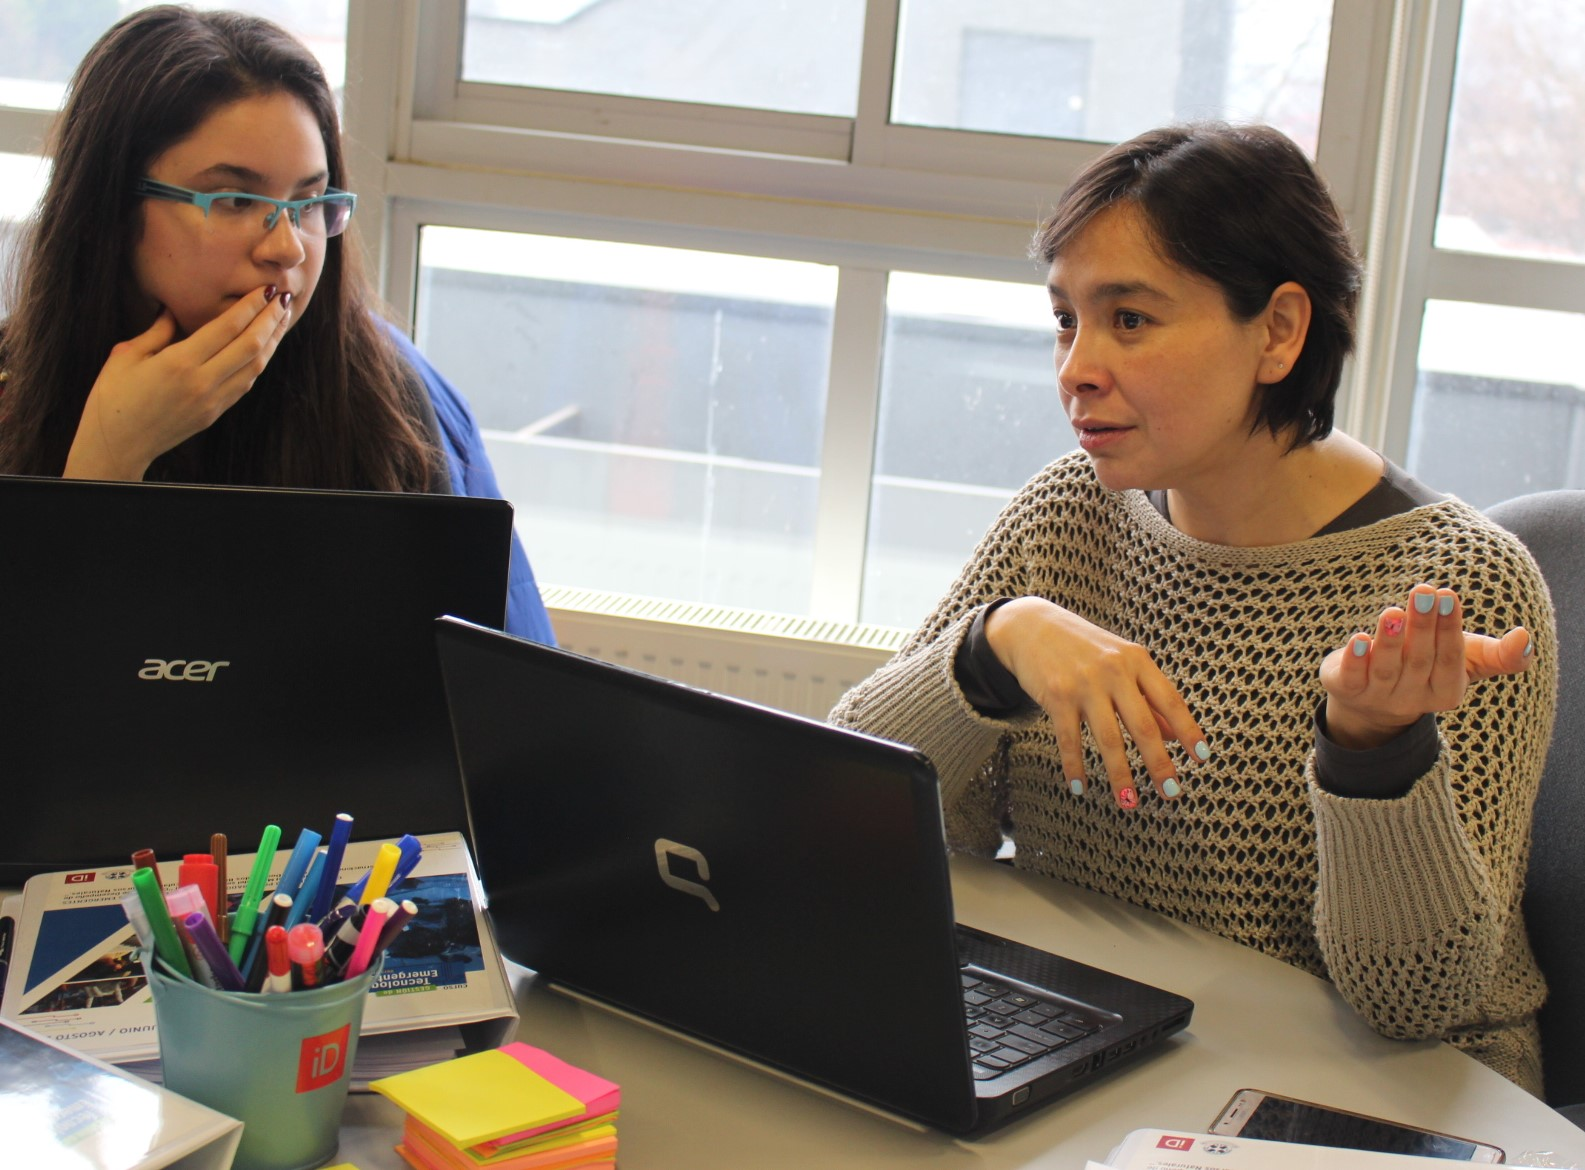
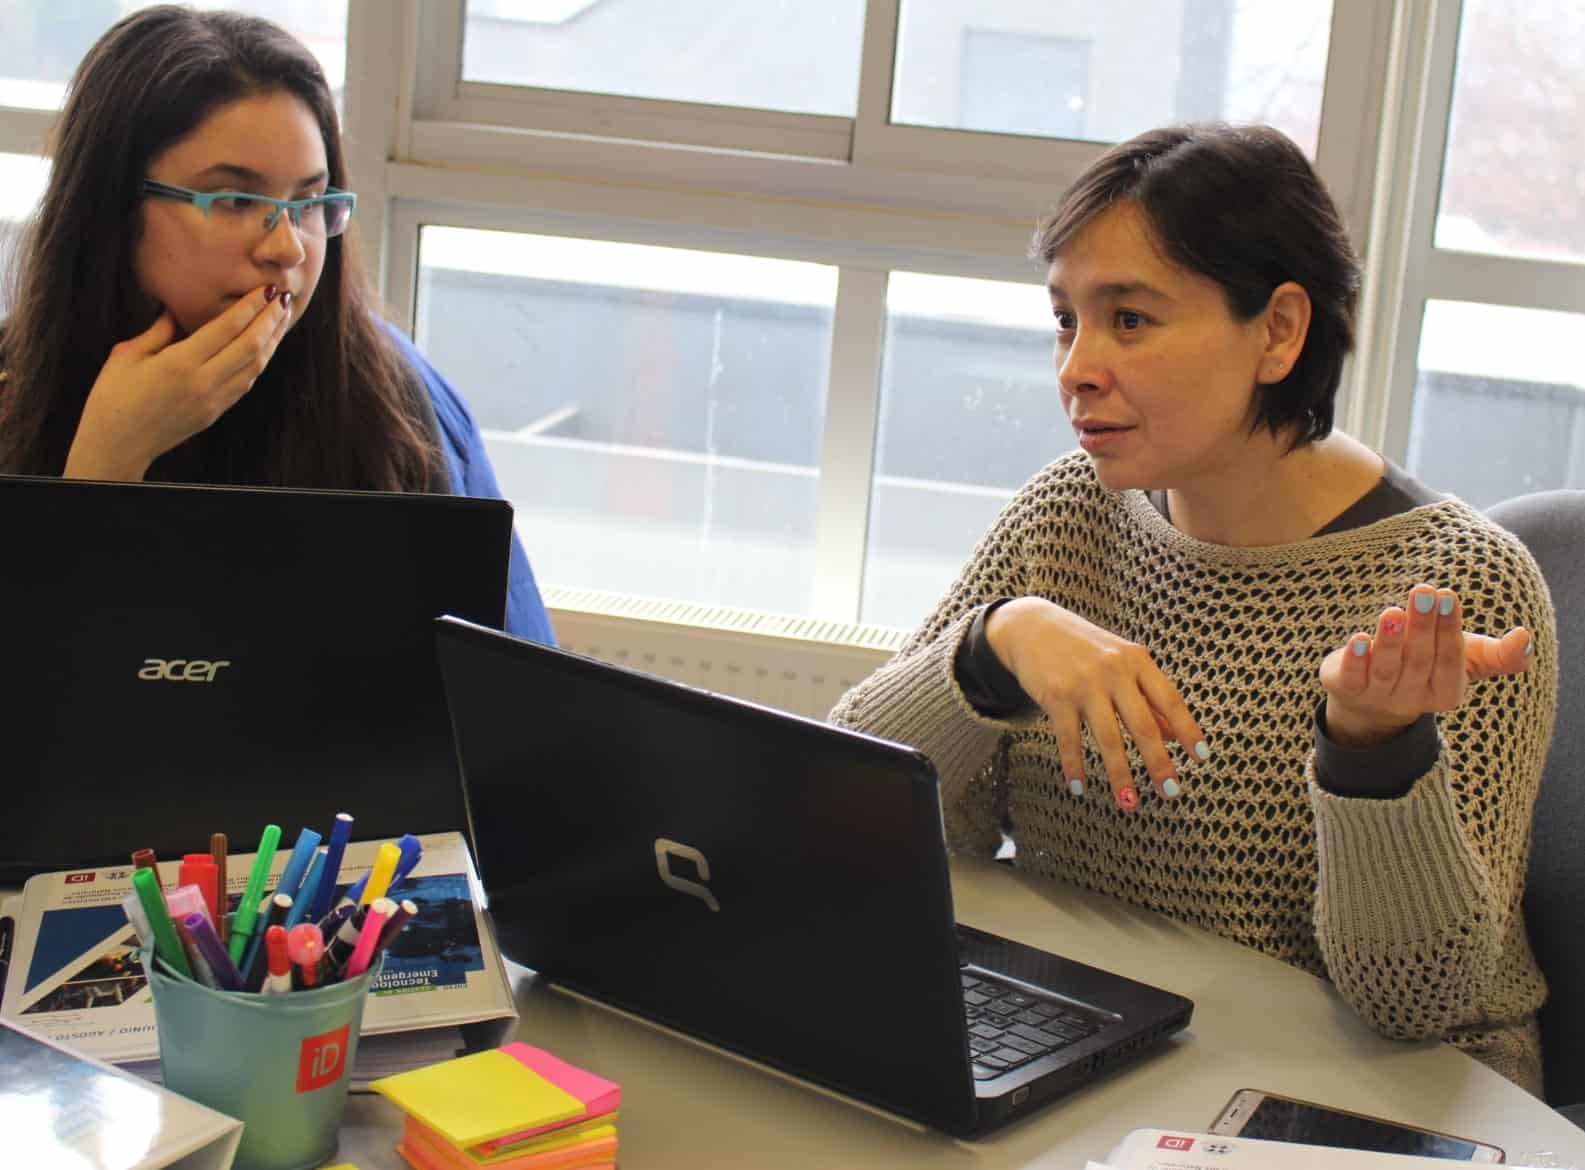
resize image

Changed region(s): [[0.8965, 0.4615, 0.9274, 0.4923], [0.8038, 0.5538, 0.8347, 0.5846]]

diff --git a/index.html b/index.html
@@ -14,7 +14,7 @@
 		<!-- meta character set -->
 		<meta charset="UTF-8">
 		<!-- Site Title -->
-		<title>Adventure</title>
+		<title>GTE</title>
 
 		<link href="https://fonts.googleapis.com/css?family=Poppins:100,200,400,300,500,600,700" rel="stylesheet"> 
 			<!--
@@ -58,7 +58,7 @@
 			</section>
 
 			<section class="default-banner active-blog-slider">
-					<div class="item-slider relative" style="background: url(img/slider.png);background-size: cover;">
+					<div class="item-slider relative" style="background: url(img/slider.JPG);background-size: cover;">
 						<div class="overlay" style="background: rgba(0, 0, 0, 0.774)"></div>
 						<div class="container">
 							<div class="row fullscreen justify-content-center align-items-center">
@@ -73,7 +73,7 @@
 							</div>
 						</div>
 					</div>
-					<div class="item-slider relative" style="background: url(img/generic.png);background-size: cover;">
+					<div class="item-slider relative" style="background: url(img/generic.JPG);background-size: cover;">
 						<div class="overlay" style="background: rgba(0, 0, 0, 0.726)"></div>
 						<div class="container">
 							<div class="row fullscreen justify-content-center align-items-center">
